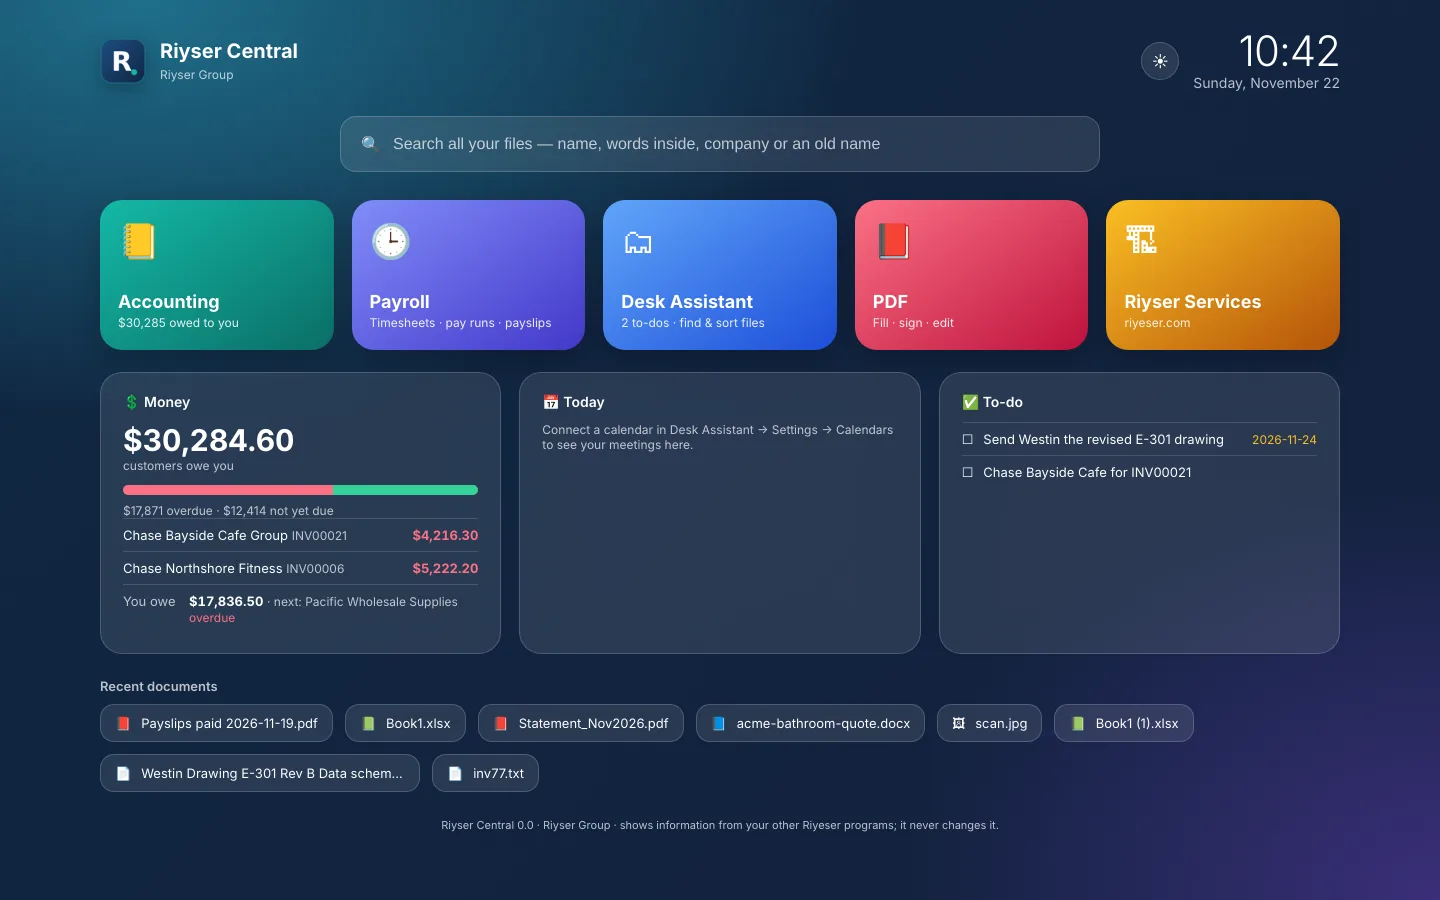
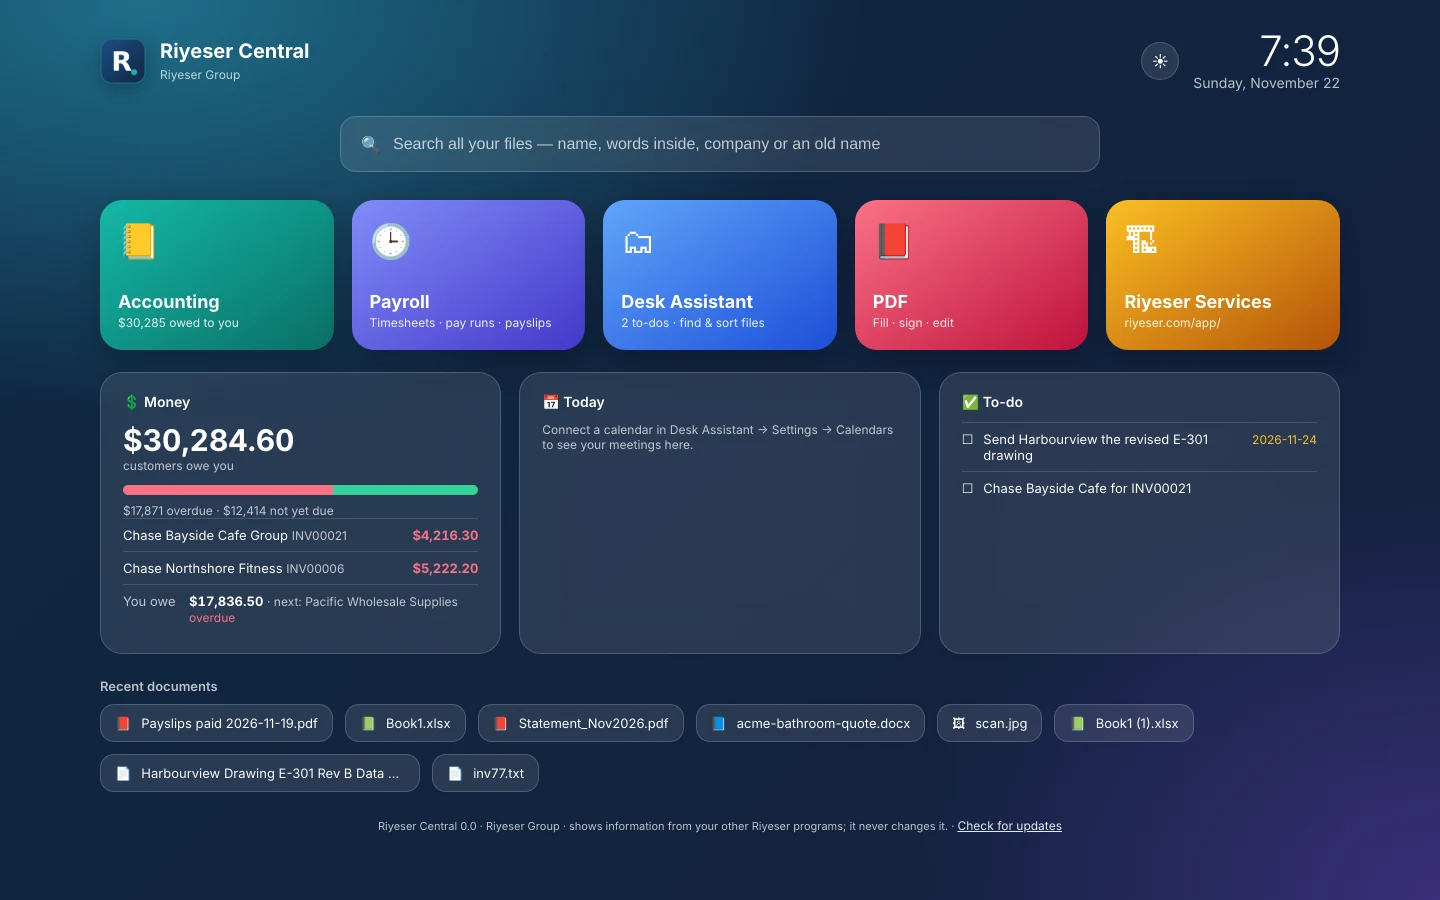
Website: new Riyeser Central screenshots with made-up sample names
Claude-Session: https://claude.ai/code/session_01AdNGM7NZsEyXuTLZrfaUfU

diff --git a/desktop/src/renderer/app.js b/desktop/src/renderer/app.js
@@ -631,7 +631,7 @@ Object.assign(pages, {
     const st0 = await bridge.call('index:status').catch(() => ({ size: 0 }));
     page.innerHTML = `<h1>Find a file</h1>
       <p class="sub">Type any part of a file's name, words inside it, a company, or a name it used to have. Narrow it down by type, year or kind of file. Searching ${st0.size.toLocaleString()} files${st0.busy ? ' (still reading new ones…)' : ''}. Tip: <kbd>Ctrl</kbd>+<kbd>Shift</kbd>+<kbd>Space</kbd> searches from anywhere.</p>
-      <input id="sq" class="bigsearch" placeholder="e.g. westin drawing, payslip march, acme invoice" value="${esc(finder.q)}" autocomplete="off">
+      <input id="sq" class="bigsearch" placeholder="e.g. harbourview drawing, payslip march, acme invoice" value="${esc(finder.q)}" autocomplete="off">
       <div id="sfilters" class="sfilters"></div>
       <div id="sres" class="card" style="margin-top:12px"></div>
       <div class="row small muted" style="margin-top:8px"><span class="grow">Can't find something you just saved? </span><button class="link small" data-act="reindex">Re-scan my folders</button></div>`;
